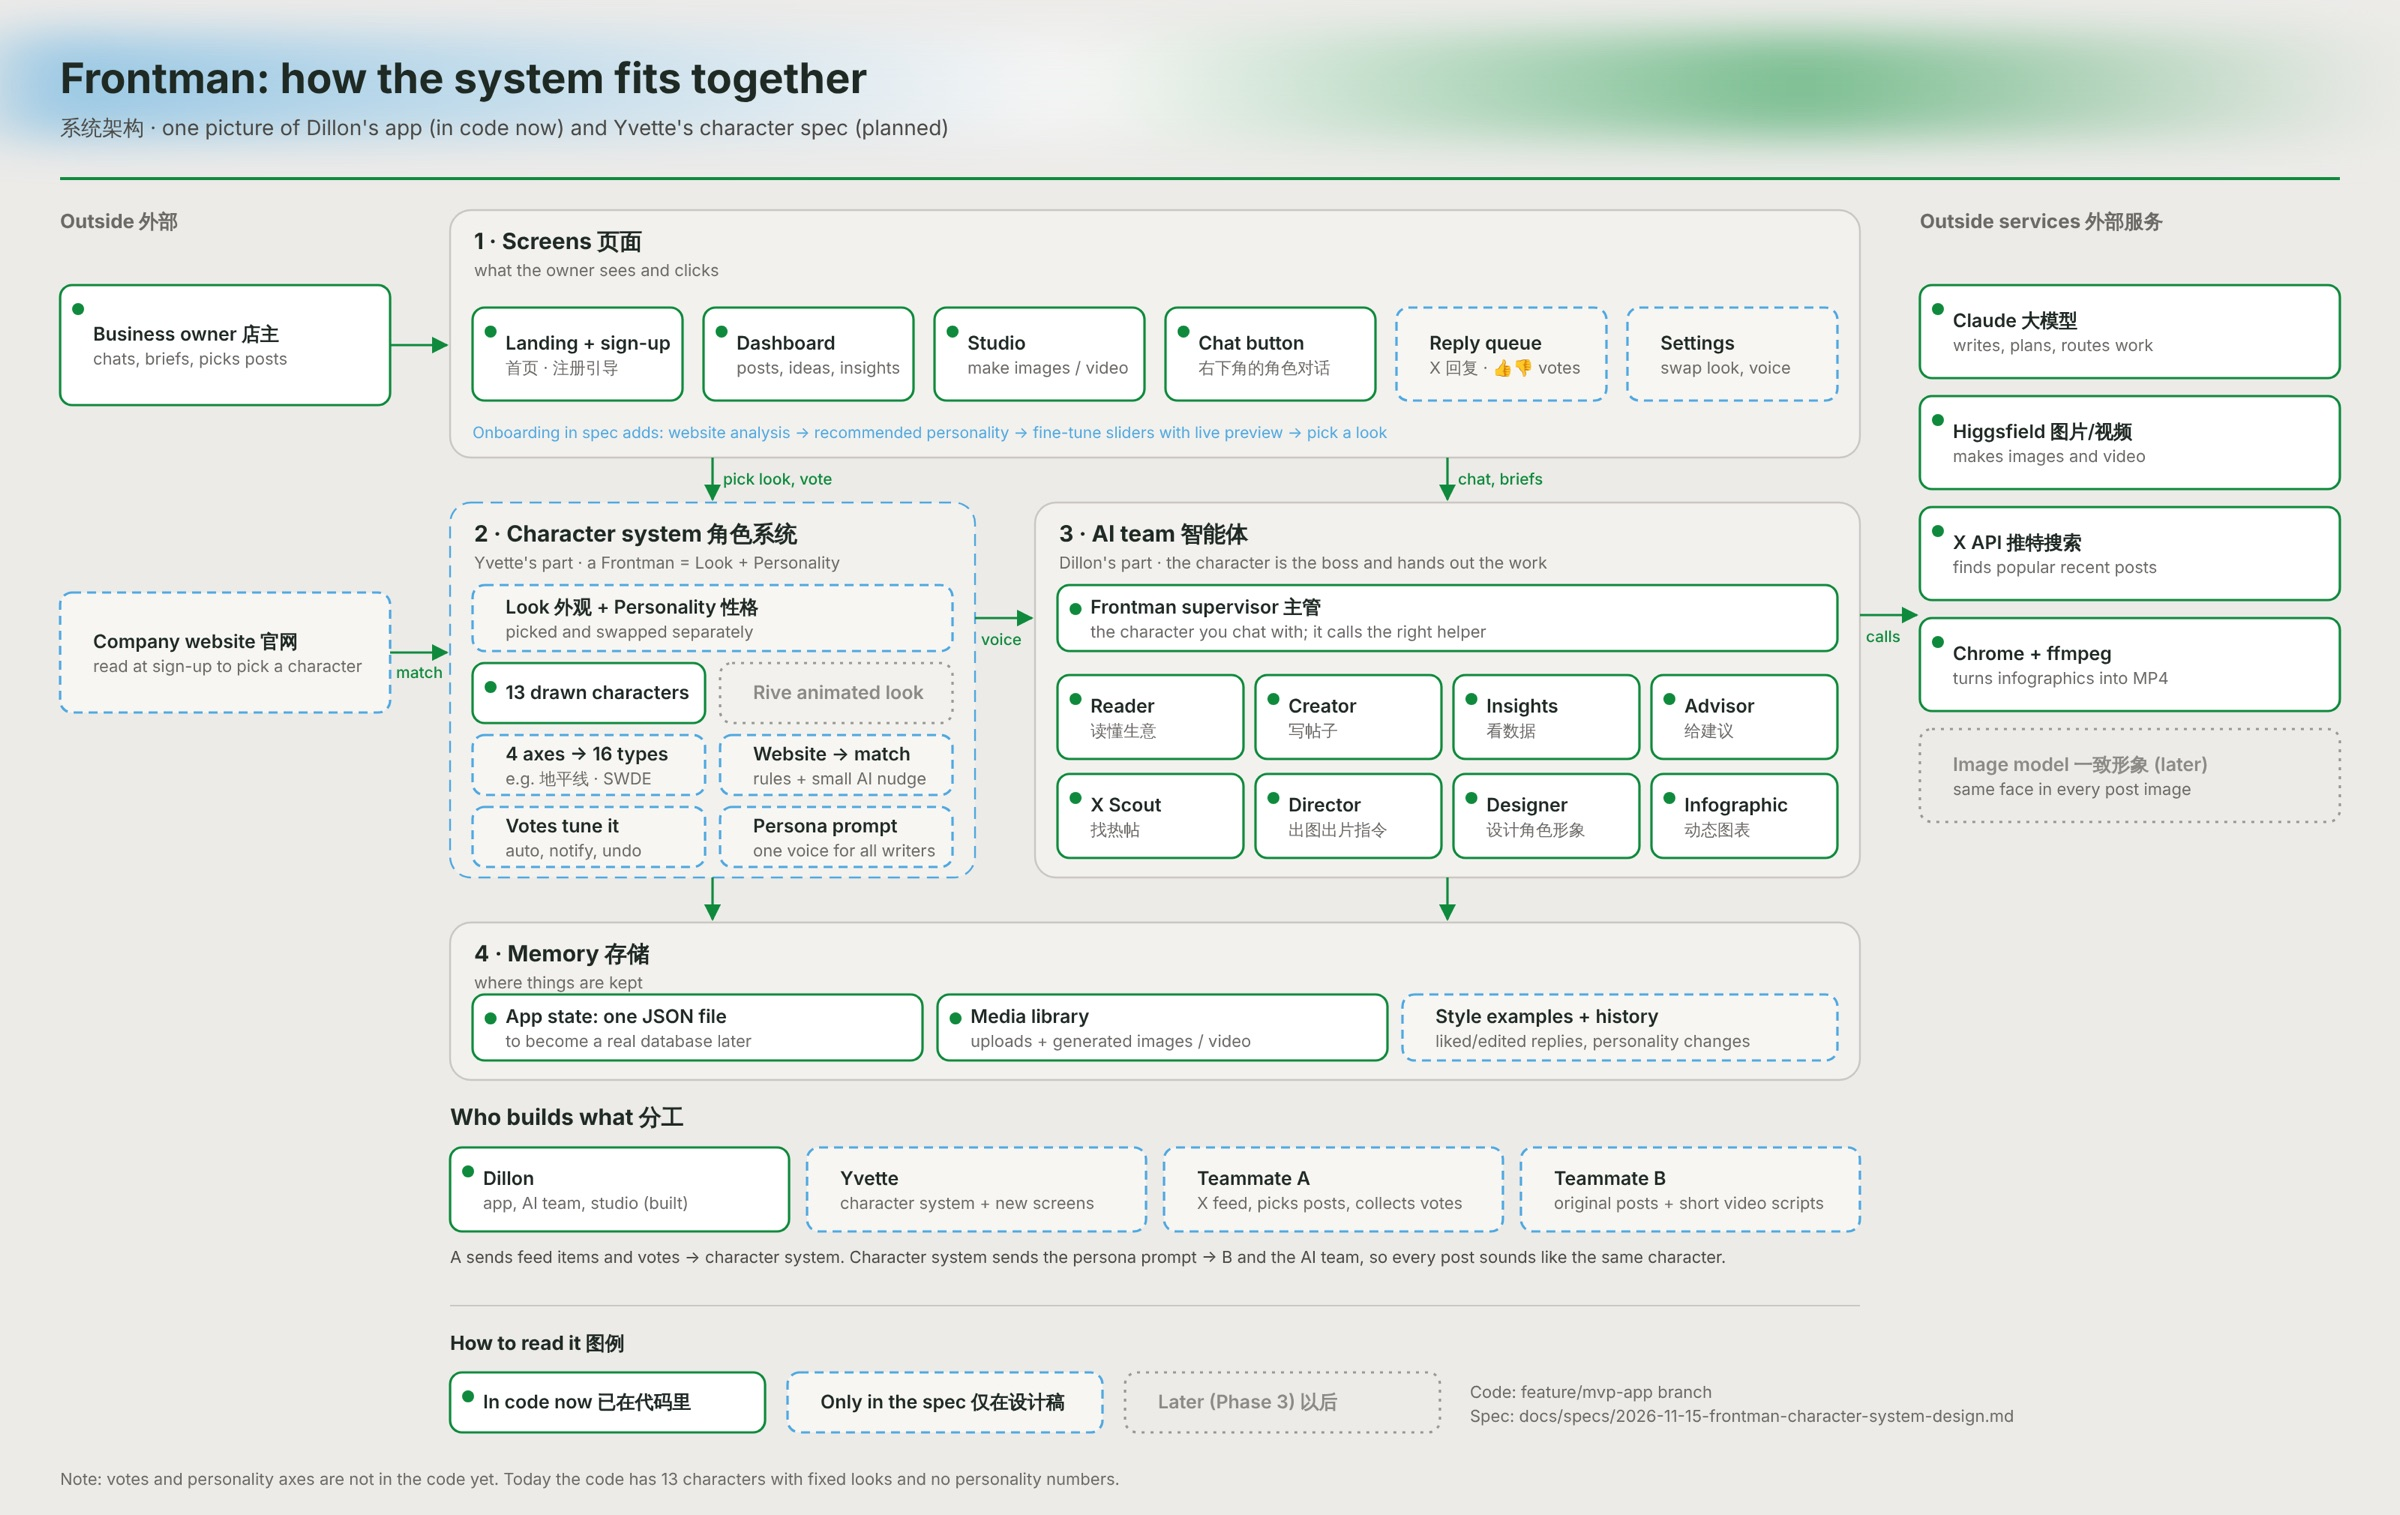
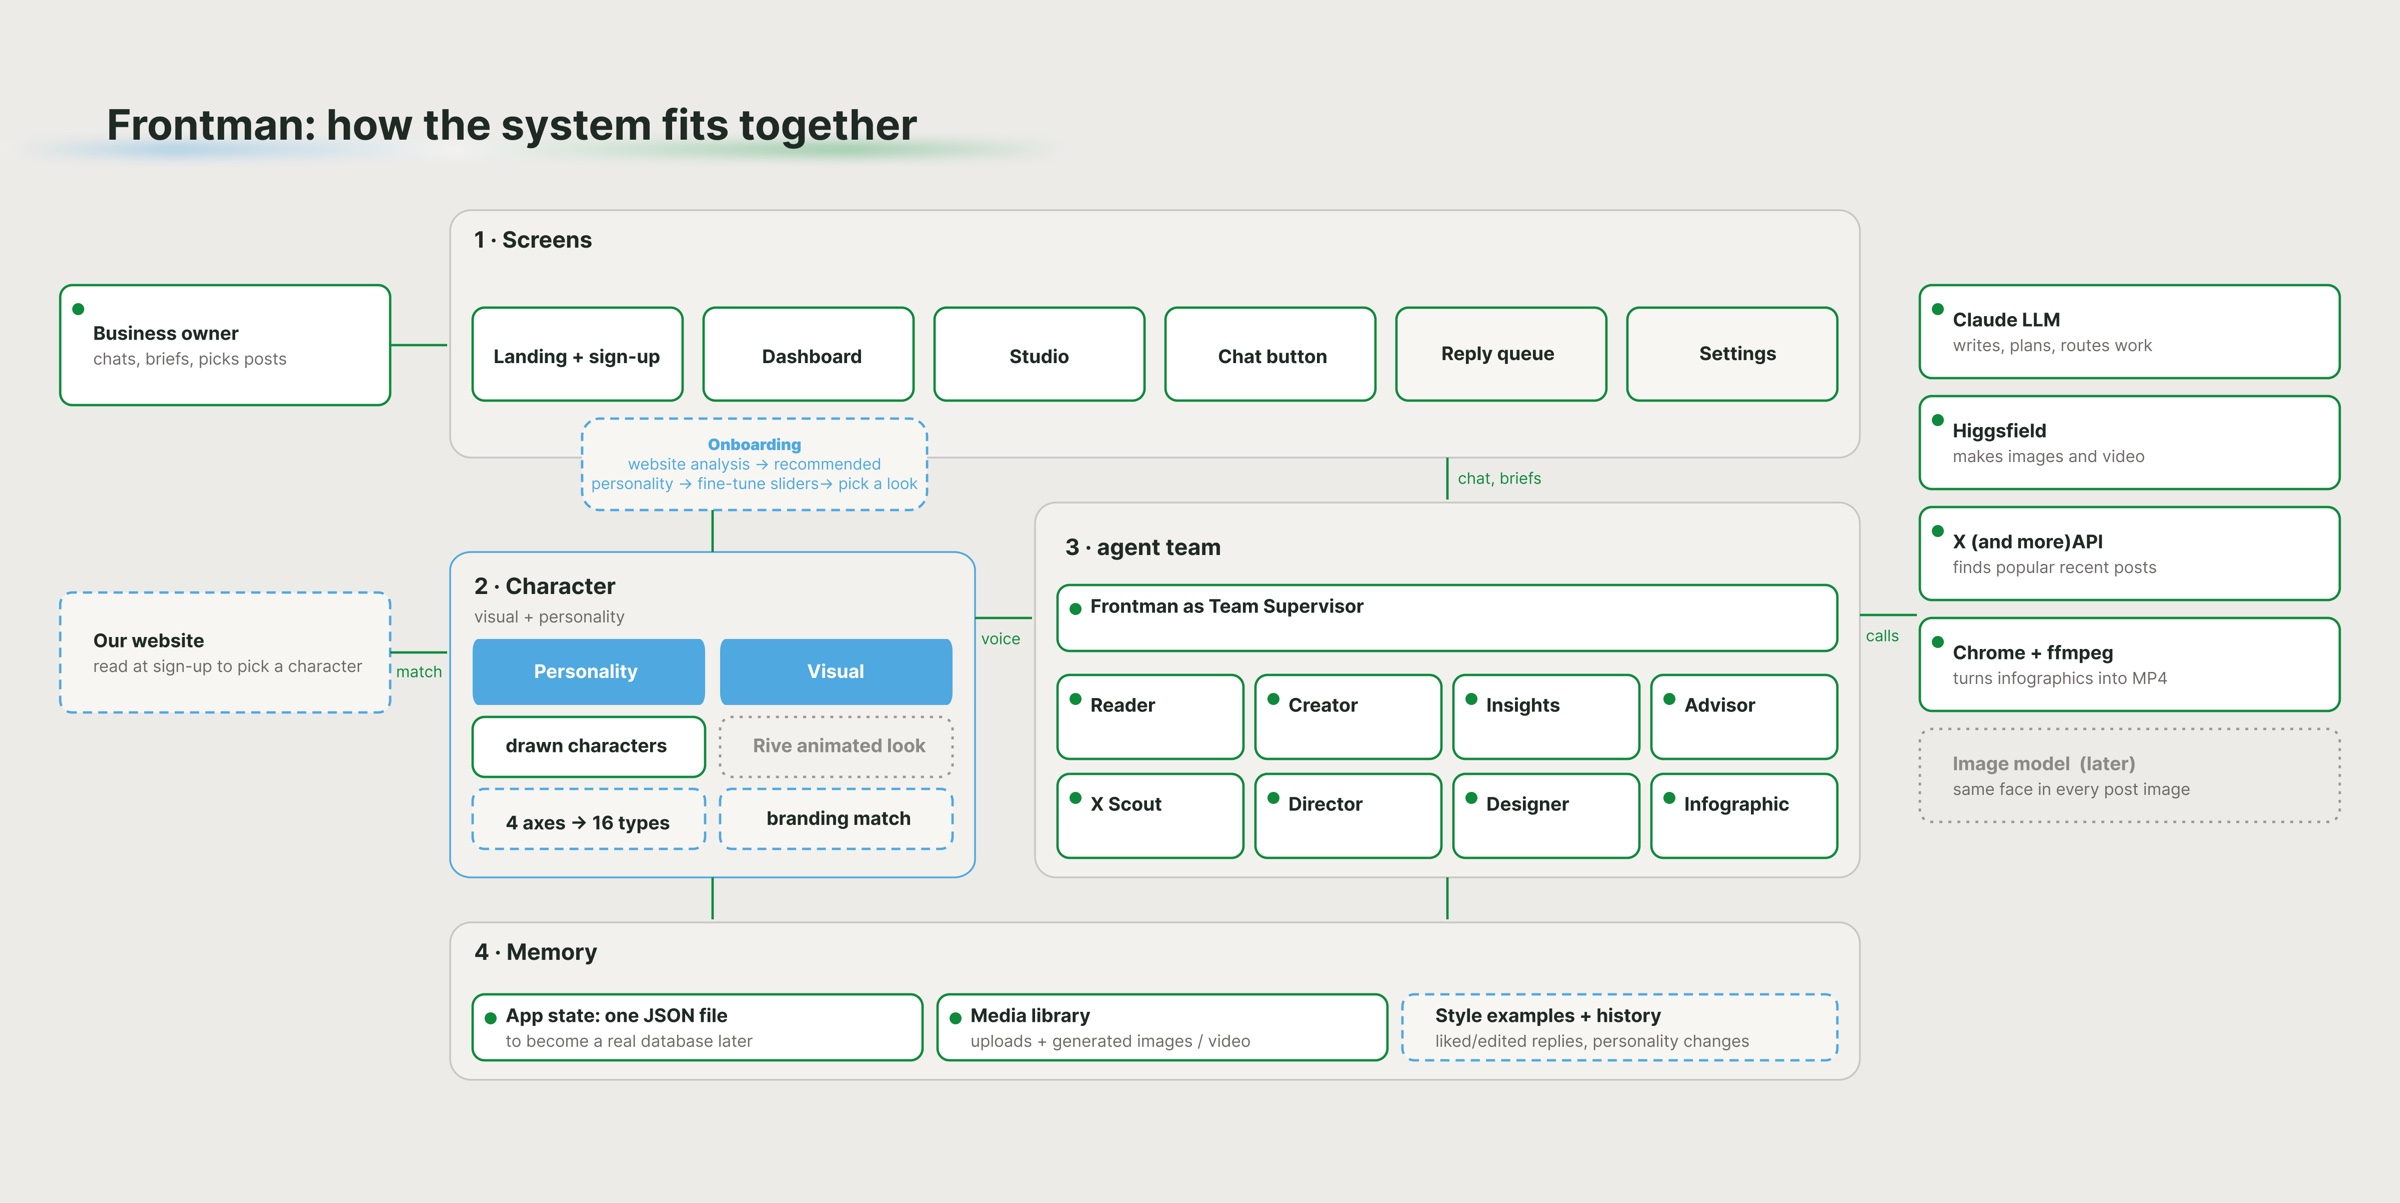
Frontman case: new diagram, Sundai Club context, context-page focus
Replace the architecture image with the new English diagram ("how the
system fits together"). Set Context to Sundai Club hackathon with a
link styled like the kicker link. Reword My part around the onboarding
context page, retitle section 03 to the context page, and drop the
duplicate landing image there so it shows only the personality step.

diff --git a/frontman-case.html b/frontman-case.html
@@ -30,7 +30,7 @@
         <h1 class="cv3__title">Frontman</h1>
         <p class="cv3__lede">An AI frontman for your business: one consistent character, with its own look and voice, that runs your public presence on social media. Founders get a recognizable public face without having to post every day themselves.</p>
         <details class="cv3__more"><summary>+ info</summary><p>Frontman starts from what your business already is. Onboarding reads your website or a context file your own agent writes, and fills in the business profile for you to check, not type. From that it recommends a personality on four axes (energy, edge, tempo, trust; 16 types) and a look. Every character, human or not, is built from one shape language of circles and capsules, so profession is shown through props rather than stereotyped faces. Founder mode lets the founder bind the brand to their own face and name instead, with a camera-only capture.</p></details>
-        <dl class="cv3__meta"><div><dt>Status</dt><dd>In progress</dd></div><div><dt>Year</dt><dd>Fall 2026</dd></div><div><dt>Context</dt><dd>MIT Media Lab AI Studio</dd></div><div><dt>Team</dt><dd>With Dillon Johnson and Emre</dd></div><div><dt>My part</dt><dd>Character system, personality model, onboarding and Founder mode</dd></div></dl>
+        <dl class="cv3__meta"><div><dt>Status</dt><dd>In progress</dd></div><div><dt>Year</dt><dd>Fall 2026</dd></div><div><dt>Context</dt><dd><a href="https://www.sundai.club/" target="_blank" rel="noopener">Sundai Club</a> hackathon</dd></div><div><dt>Team</dt><dd>With Dillon Johnson and Emre</dd></div><div><dt>My part</dt><dd>Design of the onboarding context page, plus the character system and Founder mode</dd></div></dl>
       </div>
       <div class="cv3__media"><img src="web-assets/frontman-landing.jpg" alt="Frontman landing page: Your brand needs a someone." style="object-fit: cover; object-position: left center; background: #ecebe7;"></div>
     </section>
@@ -47,15 +47,12 @@
       <section class="ref-block">
         <p class="ref-block__label">02 · How it fits together</p>
         <p class="ref-block__text">A Frontman is a look plus a personality. The character system feeds one persona prompt to a team of AI helpers, so every post sounds like the same character.</p>
-        <img class="ref-media" src="web-assets/frontman-architecture.jpg" alt="Frontman system diagram: screens, the character system, the AI team, memory, and outside services.">
+        <img class="ref-media" src="web-assets/frontman-architecture.jpg" alt="Frontman: how the system fits together. Screens, the character system, the agent team, and memory.">
       </section>
       <section class="ref-block">
-        <p class="ref-block__label">03 · Onboarding that reads, not asks</p>
-        <p class="ref-block__text">Onboarding reads the business first, then recommends a personality from that context. The founder checks and tunes it instead of filling in a blank form.</p>
-        <div class="ref-pair">
-          <img class="ref-media" src="web-assets/frontman-landing.jpg" alt="Frontman landing page.">
-          <img class="ref-media" src="web-assets/frontman-personality.jpg" alt="Recommended personality on four axes, chosen from the business context.">
-        </div>
+        <p class="ref-block__label">03 · The context page: reads, not asks</p>
+        <p class="ref-block__text">The context page reads the business first, from its website or a context file the founder's own agent writes, and fills in the profile. The founder only checks it, then gets a personality recommended from that context instead of a blank form.</p>
+        <img class="ref-media" src="web-assets/frontman-personality.jpg" alt="Recommended personality on four axes, chosen from the business context.">
       </section>
       <section class="ref-block">
         <p class="ref-block__label">04 · A face: a character or the founder</p>
@@ -76,6 +73,8 @@
       .ref-links { display: flex; flex-wrap: wrap; gap: 12px; }
       .ref-links a { display: inline-block; padding: 10px 16px; border: 1px solid rgba(31,31,31,.5); color: #1f1f1f; font-family: "Roboto Mono", ui-monospace, monospace; font-size: 12px; letter-spacing: .06em; text-transform: uppercase; text-decoration: none; }
       .ref-links a:hover, .ref-links a:focus-visible { background: #1f1f1f; color: #fff; }
+      .cv3__meta dd a { color: inherit; text-decoration: none; border-bottom: 1px solid currentColor; }
+      .cv3__meta dd a:hover, .cv3__meta dd a:focus-visible { opacity: .7; }
       .ref-pair { display: grid; grid-template-columns: 1fr 1fr; gap: 16px; align-items: start; }
       @media (max-width: 760px) { .ref-pair { grid-template-columns: 1fr; } }
     </style>
